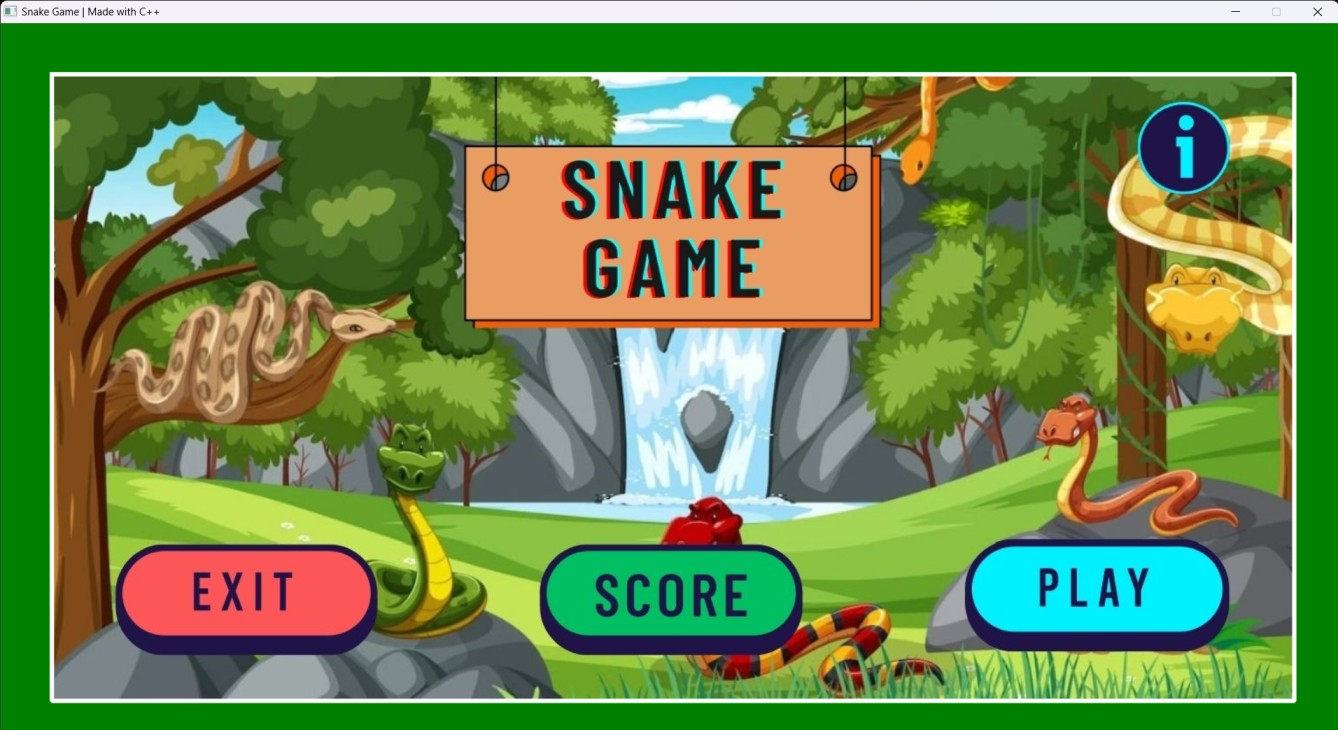
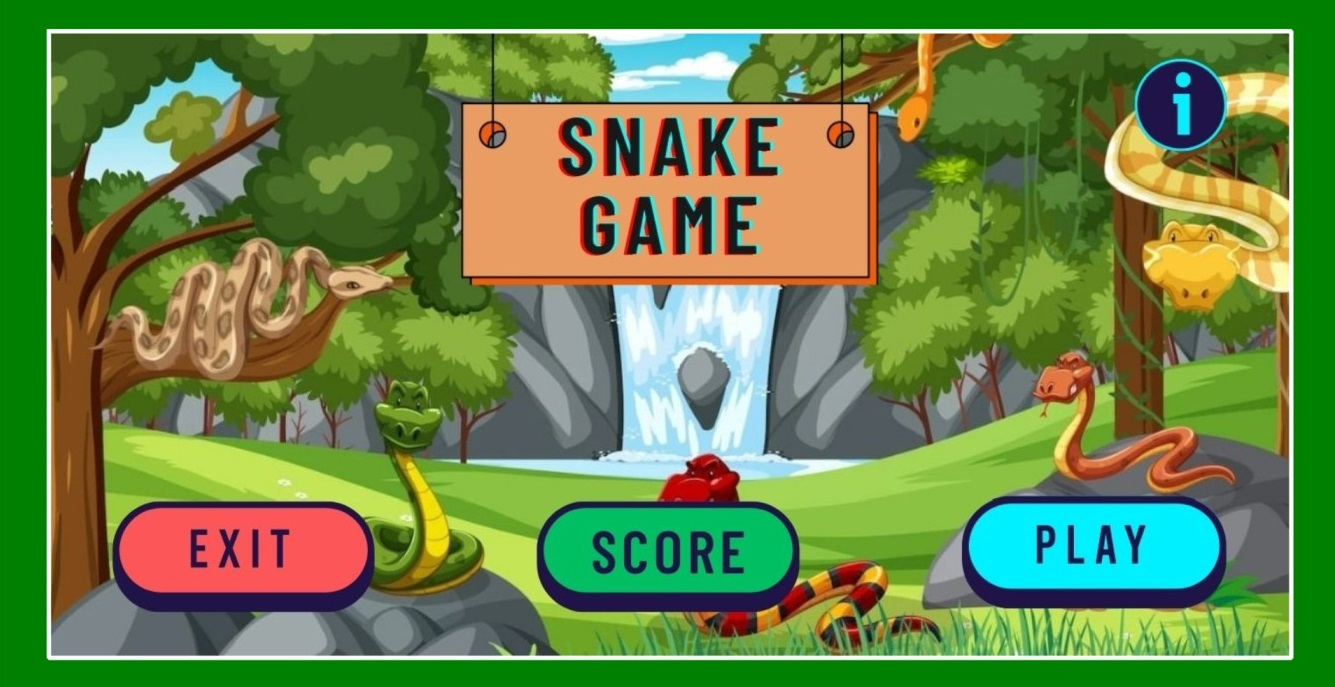
snake 2.4

diff --git a/Menu.cpp b/Menu.cpp
@@ -1,0 +1,90 @@
+#include "Menu.h"
+#include "SDL_utils.h"
+
+Menu::Menu(SDL_Window* window, SDL_Renderer* renderer, int SCREEN_WIDTH, int SCREEN_HEIGHT)
+    : window(window), renderer(renderer)
+    {
+        gallery = new Gallery(renderer);
+    }
+
+Menu::~Menu() {}
+
+Select Menu::ShowMenu() {
+    bool isMenu = true;
+    SDL_Event e;
+    Select choice = PLAY;
+    while (isMenu) {
+            SDL_SetRenderDrawColor(renderer, 255, 255, 255, 255);
+            SDL_RenderClear(renderer);
+
+            // Ve nen menu chinh
+            SDL_Rect backgroundRect = {0, 0, SCREEN_WIDTH, SCREEN_HEIGHT};
+            SDL_Rect exitRect = {80,490,170,100};
+            SDL_Rect scoreRect = {360,490,170,100};
+            SDL_Rect playRect = {650,490,170,100};
+            SDL_Rect howToPlayRect={765,90,60,80};
+            if(gallery->getImage(PIC_SNAKE_START)==nullptr){
+                std::cout<<"Unable to load texture"<<endl;
+            }
+
+            SDL_RenderCopy(renderer,gallery->getImage(PIC_SNAKE_START), NULL, &backgroundRect);
+            SDL_RenderPresent(renderer);
+
+        while (SDL_PollEvent(&e) != 0) {
+            if (e.type == SDL_QUIT) {
+                choice = QUIT;
+                isMenu = false;
+            }
+            else if (e.type == SDL_MOUSEBUTTONDOWN) {
+                int x, y;
+                SDL_GetMouseState(&x, &y);
+                SDL_Point p ={x, y};
+                if (SDL_PointInRect(&p, &playRect)){
+                    choice = PLAY;
+                    isMenu = false;
+                }
+                else if (SDL_PointInRect(&p, &howToPlayRect)) {
+                    choice = HOW_TO_PLAY;
+                    RenderHowToPlay();
+                }
+                else if (SDL_PointInRect(&p, &exitRect)){
+                    choice = EXIT;
+                    isMenu = false;
+                }
+            }
+        }
+    }
+
+    return choice;
+}
+
+void Menu::RenderHowToPlay() {
+    bool isRunning = true;
+    SDL_Event e;
+
+    while (isRunning) {
+        SDL_SetRenderDrawColor(renderer, 255, 255, 255, 255);
+        SDL_RenderClear(renderer);
+        SDL_Rect howToPlayRect = {0, 0, SCREEN_WIDTH, SCREEN_HEIGHT};
+        //SDL_RenderCopy(renderer,  "howtoplay.png", NULL, &howToPlayRect);
+
+        //SDL_Rect backRect = {howToPlayRect.w-BUTTON_SIZE, 0, BUTTON_SIZE, BUTTON_SIZE};
+        //SDL_RenderCopy(renderer, loadTexture::loadT(renderer, "backbutton.png"), NULL, &backRect);
+
+        SDL_RenderPresent(renderer);
+
+        while (SDL_PollEvent(&e) != 0) {
+            if (e.type == SDL_QUIT) {
+                isRunning = false;
+            }
+            else if (e.type == SDL_MOUSEBUTTONDOWN) {
+                int x, y;
+                SDL_GetMouseState(&x, &y);
+                SDL_Point p ={x, y};
+                //if (SDL_PointInRect(&p, &backRect)) {
+                    //isRunning = false;
+                //}
+            }
+        }
+    }
+}

diff --git a/main.cpp b/main.cpp
@@ -3,6 +3,7 @@
 #include <ctime>
 #include <cmath>
 #include <chrono>
+#include "Menu.h"
 
 #include "SDL_utils.h"
 using namespace std;
@@ -19,34 +20,38 @@ int main(int argc, char* argv[])
     SDL_Window* window;
     SDL_Renderer* renderer;
     initSDL(window, renderer, SCREEN_WIDTH, SCREEN_HEIGHT, WINDOW_TITLE);
-    gallery = new Gallery(renderer);
-    Game game(BOARD_WIDTH, BOARD_HEIGHT);
-    SDL_Event e;
 
-    renderSplashScreen();
-    auto start = CLOCK_NOW();
-    renderGamePlay(renderer, game, gallery);
-    bool isquit=false;
+    Menu menu(window, renderer, SCREEN_WIDTH, SCREEN_HEIGHT);
 
-    while (game.isGameRunning() && !isquit) {
-        while (SDL_PollEvent(&e)) {
-            interpretEvent(e, game,isquit);
+    Select choice = menu.ShowMenu();
+    if (choice == PLAY){
+        gallery = new Gallery(renderer);
+        Game game(BOARD_WIDTH, BOARD_HEIGHT);
+        SDL_Event e;
+        renderGamePlay(renderer, game, gallery);
+        renderSplashScreen();
+        auto start = CLOCK_NOW();
+        renderGamePlay(renderer, game, gallery);
+        bool isquit=false;
+
+        while (game.isGameRunning() && !isquit) {
+            while (SDL_PollEvent(&e)) {
+                interpretEvent(e, game,isquit);
+            }
+            auto end = CLOCK_NOW();
+            ElapsedTime elapsed = end-start;
+            if (elapsed.count() > STEP_DELAY) {
+                game.nextStep();
+                renderGamePlay(renderer, game, gallery);
+
+                start = end;
+            }
+            SDL_Delay(1);
         }
-
-        auto end = CLOCK_NOW();
-        ElapsedTime elapsed = end-start;
-        if (elapsed.count() > STEP_DELAY) {
-            game.nextStep();
-            renderGamePlay(renderer, game, gallery);
-
-            start = end;
-        }
-        SDL_Delay(1);
+        renderGameOver(renderer, game);
+        updateRankingTable(game);
     }
-//    renderGameOver(renderer, game);
-//    updateRankingTable(game);
-
-    delete gallery;
+        delete gallery;
     quitSDL(window, renderer);
     return 0;
 

diff --git a/SDL_utils.cpp b/SDL_utils.cpp
@@ -40,8 +40,9 @@ void quitSDL(SDL_Window* window, SDL_Renderer* renderer){
 }
 
 void waitUntilKeyPressed(){
-    SDL_Event e;
     while (true) {
+        SDL_Event e;
+        //SDL_RenderCopy(renderer, gallery->getImage(PIC_SNAKE_MENU), NULL, &mrect);
         if ( SDL_WaitEvent(&e) != 0 &&
              (e.type == SDL_KEYDOWN || e.type == SDL_QUIT) )
             return;
@@ -67,12 +68,12 @@ void drawCell(SDL_Renderer* renderer, int left, int top, Position pos, SDL_Textu
 }
 
 void drawCherry(SDL_Renderer* renderer, int left, int top, Position pos, Gallery* gallery){
-    if(ranD == 2)
-        drawCell(renderer, left, top, pos, gallery->getImage(PIC_PINEAPPLE));
-    else if(ranD == 1)
+    if(ranD == 1)
         drawCell(renderer, left, top, pos, gallery->getImage(PIC_APPLE));
     else if(ranD == 0)
         drawCell(renderer, left, top, pos, gallery->getImage(PIC_CHERRY));
+    else if(ranD == 2)
+        drawCell(renderer, left, top, pos, gallery->getImage(PIC_PINEAPPLE));
 
 }
 
@@ -147,7 +148,7 @@ void updateRankingTable(const Game& game){
 void CreateGameText(SDL_Renderer* renderer,std::string input, int x, int y)
 {
     if(TTF_Init()==-1){
-        std::cout <<"loi "<<endl;
+        std::cout <<"Error "<<endl;
     }
     TTF_Font* font = TTF_OpenFont("font/VBODONP.ttf", 30);
         if (font == nullptr) {

diff --git a/Menu.h b/Menu.h
@@ -1,0 +1,34 @@
+#ifndef MENUGAME_H
+#define MENUGAME_H
+
+#include "SDL_utils.h"
+#include "Gallery.h"
+
+enum Select{
+    PLAY,
+    HOW_TO_PLAY,
+    EXIT,
+    QUIT
+};
+class Menu
+{
+public:
+
+    Menu(SDL_Window* window, SDL_Renderer* renderer, int SCREEN_WIDTH, int SCREEN_HEIGHT);
+    ~Menu();
+
+    Select ShowMenu();
+    void RenderHowToPlay();
+private:
+    SDL_Event e;
+    const int SizeSelectionW = SCREEN_WIDTH/3;
+    const int SizeSelectionH = 100;
+
+    SDL_Window* window;
+    SDL_Renderer* renderer;
+
+    Gallery* gallery;
+
+};
+
+#endif // MENUGAME_H

diff --git a/Gallery.cpp b/Gallery.cpp
@@ -31,6 +31,7 @@ SDL_Texture* Gallery::loadTexture(std::string path )
 void Gallery::loadGamePictures()
 {
     pictures[PIC_SNAKE_MAP] = loadTexture("picture/map.jpg");
+    pictures[PIC_SNAKE_START] = loadTexture("picture/start.jpg");
     pictures[PIC_CHERRY] = loadTexture("picture/cherry.jpg");
     pictures[PIC_PINEAPPLE] = loadTexture("picture/pineapple.jpg");
     pictures[PIC_APPLE] = loadTexture("picture/apple.jpg");

diff --git a/Gallery.h b/Gallery.h
@@ -9,7 +9,7 @@
 enum PictureID {
     PIC_CHERRY ,PIC_PINEAPPLE , PIC_APPLE ,
     PIC_SNAKE_VERTICAL,
-    PIC_SNAKE_HORIZONTAL, PIC_SNAKE_HEAD, PIC_COUNT, PIC_SNAKE_MAP
+    PIC_SNAKE_HORIZONTAL, PIC_SNAKE_HEAD, PIC_COUNT, PIC_SNAKE_MAP,PIC_SNAKE_START
 };
 
 class Gallery

diff --git a/constants.h b/constants.h
@@ -12,7 +12,7 @@ const int BOARD_WIDTH = 30;
 const int BOARD_HEIGHT = 20;
 const int CELL_SIZE = 30;
 
-const SDL_Color BOARD_COLOR = {0,64, 64};
+const SDL_Color BOARD_COLOR = {255,165,0};
 const SDL_Color LINE_COLOR = {0, 128, 128};
 
 const double STEP_DELAY = 0.3;
